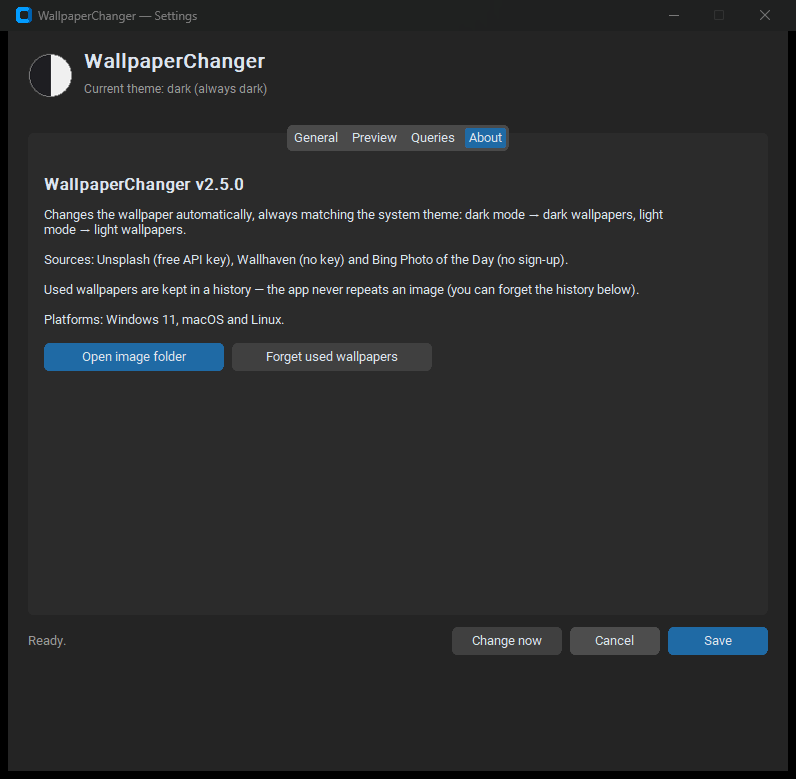
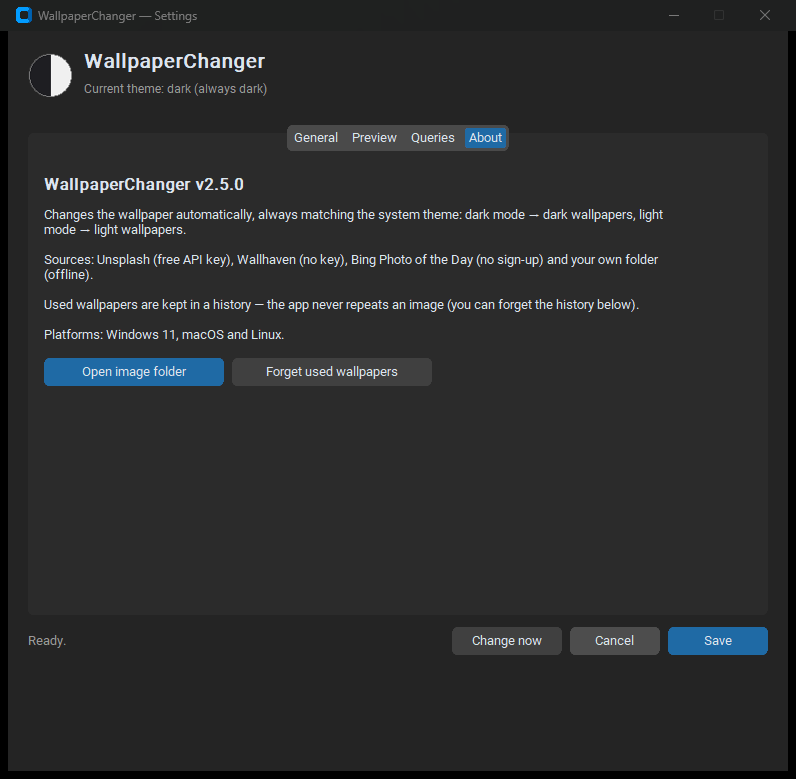
docs: tidy the GitHub page and remove unused assets
- Remove the four unused light-theme screenshots (the README only uses the dark ones) and regenerate the dark ones with the updated About text.
- README: Windows install points at the release zip, sources entry mentions the local folder, tag example is v2.5.0.
- About text now lists the local folder source; drop the now-unused 'pick one source' translation entry.
- GitHub: remove the redundant website link (it pointed at the repo itself), disable the empty Projects and Wiki tabs, and add curated notes to the v2.5.0 release.

Changed region(s): [[0.0302, 0.3081, 0.8141, 0.4929]]

diff --git a/src/wallpaper_changer/i18n.py b/src/wallpaper_changer/i18n.py
@@ -99,7 +99,6 @@ CATALOGS: dict[str, dict[str, str]] = {
         "Escolher…": "Choose…",
         "Escolhe uma pasta com os teus wallpapers…": "Pick a folder with your own wallpapers…",
         "Escolhe a pasta dos teus wallpapers (ou desativa a fonte Pasta local).": "Pick your wallpapers folder (or disable the Local folder source).",
-        "Podes escolher só uma fonte ou combinar várias.": "You can pick a single source or combine several.",
         "Cola aqui a API key do Unsplash…": "Paste your Unsplash API key here…",
         "API key gratuita em unsplash.com/developers — só para o Unsplash. "
         "O Wallhaven e o Bing não precisam.": "Free API key at unsplash.com/developers — for Unsplash only. "
@@ -143,15 +142,17 @@ CATALOGS: dict[str, dict[str, str]] = {
         "Muda o wallpaper automaticamente, sempre a condizer com o "
         "tema do sistema: modo escuro → wallpapers escuros, modo "
         "claro → wallpapers claros.\n\n"
-        "Fontes: Unsplash (API key gratuita), Wallhaven (sem key) e "
-        "Bing Photo of the Day (sem registo).\n\n"
+        "Fontes: Unsplash (API key gratuita), Wallhaven (sem key), "
+        "Bing Photo of the Day (sem registo) e a tua própria pasta "
+        "(offline).\n\n"
         "Os wallpapers já usados ficam guardados num histórico — a app "
         "nunca repete uma imagem (podes esquecer o histórico aqui em baixo).\n\n"
         "Plataformas: Windows 11, macOS e Linux.": "Changes the wallpaper automatically, always matching the "
         "system theme: dark mode → dark wallpapers, light mode → "
         "light wallpapers.\n\n"
-        "Sources: Unsplash (free API key), Wallhaven (no key) and "
-        "Bing Photo of the Day (no sign-up).\n\n"
+        "Sources: Unsplash (free API key), Wallhaven (no key), "
+        "Bing Photo of the Day (no sign-up) and your own folder "
+        "(offline).\n\n"
         "Used wallpapers are kept in a history — the app never "
         "repeats an image (you can forget the history below).\n\n"
         "Platforms: Windows 11, macOS and Linux.",

diff --git a/src/wallpaper_changer/ui.py b/src/wallpaper_changer/ui.py
@@ -498,8 +498,9 @@ class SettingsWindow(ctk.CTkToplevel):
                 "Muda o wallpaper automaticamente, sempre a condizer com o "
                 "tema do sistema: modo escuro → wallpapers escuros, modo "
                 "claro → wallpapers claros.\n\n"
-                "Fontes: Unsplash (API key gratuita), Wallhaven (sem key) e "
-                "Bing Photo of the Day (sem registo).\n\n"
+                "Fontes: Unsplash (API key gratuita), Wallhaven (sem key), "
+                "Bing Photo of the Day (sem registo) e a tua própria pasta "
+                "(offline).\n\n"
                 "Os wallpapers já usados ficam guardados num histórico — a app "
                 "nunca repete uma imagem (podes esquecer o histórico aqui em baixo).\n\n"
                 "Plataformas: Windows 11, macOS e Linux."

diff --git a/README.md b/README.md
@@ -67,8 +67,9 @@ window.
 
 ### Windows 11
 
-1. Download `WallpaperChanger.exe` from the [Releases](https://github.com/desorderrr/wallpaper-changer/releases)
-   page (or from the CI artifacts)
+1. Download `WallpaperChanger-windows.zip` from the
+   [Releases](https://github.com/desorderrr/wallpaper-changer/releases) page and
+   extract `WallpaperChanger.exe`
 2. Run the `.exe` — a **half-dark / half-light** icon appears in the tray
    (the `^` arrow next to the clock)
 3. Right-click the icon → **Settings...**
@@ -158,7 +159,7 @@ src/wallpaper_changer/
 ├── resolution.py   # screen detection and per-source target size
 ├── config.py       # settings, paths, migrations
 ├── history.py      # used-wallpaper history (no repeats)
-├── sources.py      # Unsplash + Wallhaven + Bing
+├── sources.py      # Unsplash + Wallhaven + Bing + local folder
 ├── tone.py         # luminance / tone matching
 ├── assets.py       # code-generated icon
 └── platform/
@@ -172,7 +173,7 @@ CI: `.github/workflows/build.yml` lints and tests on Windows and Linux
 publishes a Release with the binaries.
 
 ```bash
-git tag v2.4.0 && git push origin v2.4.0
+git tag v2.5.0 && git push origin v2.5.0
 ```
 
 ## Platform status
